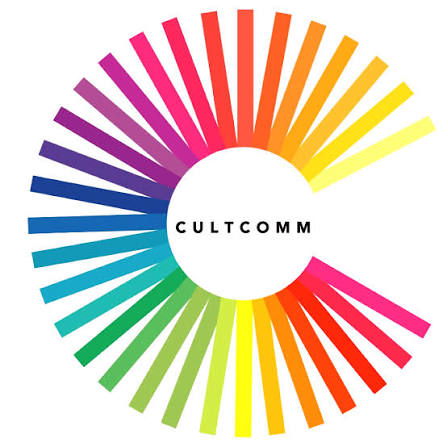
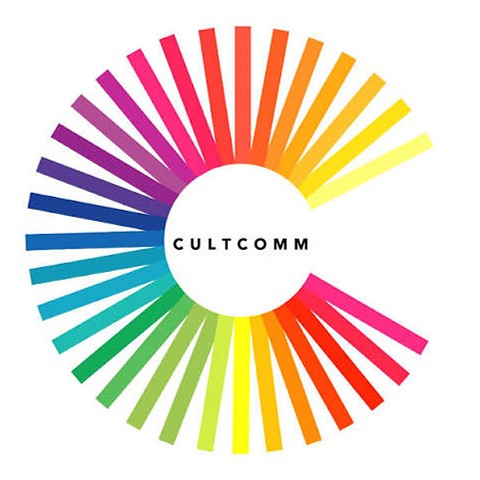
Centre the Cultcomm wheel inside its round outline
The wheel sat 19 px right of centre in the 447 px source image and its rays ran to the image
edges, so the circular outline looked off-centre and clipped them unevenly. Both logo files
are rebuilt with the hub exactly centred and an even ~5% margin. Service worker cache bumped
so the app icon refreshes.

diff --git a/web/public/sw.js b/web/public/sw.js
@@ -1,7 +1,7 @@
 // Keeps the app shell available with a weak network at the venue.
 // Hashed assets: cache-first. Pages: network-first with cached fallback. API and dashboard: never cached here.
 // Works under a sub-path (e.g. /garba2026/): everything is relative to this worker's scope.
-const CACHE = 'garba-v3';
+const CACHE = 'garba-v4';
 const BASE = new URL(self.registration.scope).pathname; // "/garba2026/" or "/"
 
 self.addEventListener('install', (e) => {
